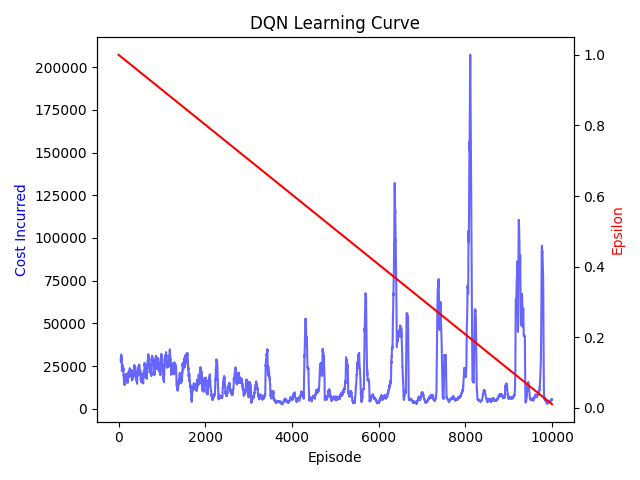
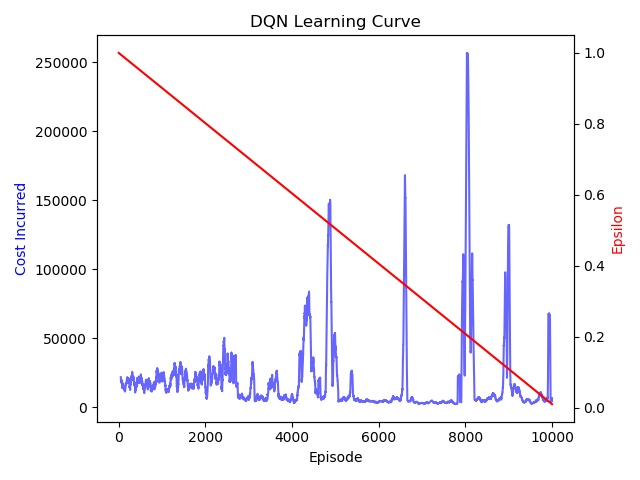
added DeterministicPolicyAgent.py

diff --git a/Deterministic_Test.py b/Deterministic_Test.py
@@ -1,0 +1,147 @@
+import matplotlib.pyplot as plt
+import pandas as pd
+import numpy as np
+
+import SupplyChainAgent
+from theBeerGame.Customer import Customer
+from theBeerGame.Distributor import Distributor
+from theBeerGame.Factory import Factory
+from theBeerGame.Retailer import Retailer
+from theBeerGame.Settings import *
+from theBeerGame.SupplyChainQueue import SupplyChainQueue
+from theBeerGame.SupplyChainStatistics import SupplyChainStatistics
+from theBeerGame.Wholesaler import Wholesaler
+
+# set Pandas options
+pd.set_option('display.width', 2000)
+pd.set_option('display.max_columns', 500)
+
+# set numpy options
+# np.random.seed(RANDOM_SEED)
+
+# Initialize SupplyChainQueues
+wholesalerRetailerTopQueue = SupplyChainQueue(QUEUE_DELAY_WEEKS)
+wholesalerRetailerBottomQueue = SupplyChainQueue(QUEUE_DELAY_WEEKS)
+
+distributorWholesalerTopQueue = SupplyChainQueue(QUEUE_DELAY_WEEKS)
+distributorWholesalerBottomQueue = SupplyChainQueue(QUEUE_DELAY_WEEKS)
+
+factoryDistributorTopQueue = SupplyChainQueue(QUEUE_DELAY_WEEKS)
+factoryDistributorBottomQueue = SupplyChainQueue(QUEUE_DELAY_WEEKS)
+
+for i in range(0, 2):
+    wholesalerRetailerTopQueue.PushEnvelope(CUSTOMER_INITIAL_ORDERS)
+    wholesalerRetailerBottomQueue.PushEnvelope(CUSTOMER_INITIAL_ORDERS)
+    distributorWholesalerTopQueue.PushEnvelope(CUSTOMER_INITIAL_ORDERS)
+    distributorWholesalerBottomQueue.PushEnvelope(CUSTOMER_INITIAL_ORDERS)
+    factoryDistributorTopQueue.PushEnvelope(CUSTOMER_INITIAL_ORDERS)
+    factoryDistributorBottomQueue.PushEnvelope(CUSTOMER_INITIAL_ORDERS)
+
+# Initialize Statistics object
+myStats = SupplyChainStatistics()
+
+# Initialize actors
+theCustomer = Customer()
+myRetailer = Retailer(None, wholesalerRetailerTopQueue, wholesalerRetailerBottomQueue, None, theCustomer)
+
+myWholesaler = Wholesaler(wholesalerRetailerTopQueue, distributorWholesalerTopQueue,
+                          distributorWholesalerBottomQueue, wholesalerRetailerBottomQueue)
+
+myDistributor = Distributor(distributorWholesalerTopQueue, factoryDistributorTopQueue,
+                            factoryDistributorBottomQueue, distributorWholesalerBottomQueue)
+
+myFactory = Factory(factoryDistributorTopQueue, None, None, factoryDistributorBottomQueue, QUEUE_DELAY_WEEKS)
+
+BACKORDER_PENALTY_COST_PER_UNIT = 1.0
+num_episodes = 10000
+num_actions = 30
+initial_epsilon = 1.0
+final_epsilon = 0.01
+# agent = SupplyChainAgent.MonteCarloAgent(nA=num_actions, num_episodes=num_episodes, epsilon=initial_epsilon)
+agent = SupplyChainAgent.DQNAgent(gamma=0.99, epsilon=initial_epsilon, alpha=0.0005, input_dims=4,
+                                  n_actions=num_actions, mem_size=10000, batch_size=52)
+
+
+agent.load_model()
+df = pd.DataFrame(columns=['Week', 'currentStock', 'currentOrders', 'lastOrderQuantity', 'currentPipeline',
+                           'action', 'reward', 'cumulativeReward', 'done'])
+
+weeks = []
+currentStock = []
+currentOrders = []
+lastOrderQuantity = []
+currentPipeline = []
+actions = []
+rewards = []
+cumulativeReward = []
+dones = []
+
+# run episode
+for thisWeek in range(WEEKS_TO_PLAY):
+    # Retailer takes turn, update stats
+    myRetailer.TakeTurn(thisWeek)
+    myStats.RecordRetailerCost(myRetailer.GetCostIncurred())
+    myStats.RecordRetailerOrders(myRetailer.GetLastOrderQuantity())
+    myStats.RecordRetailerEffectiveInventory(myRetailer.CalcEffectiveInventory())
+    print("Retailer Complete")
+
+    # Wholesaler takes turn
+    # state is a list of (week num, inventory, incoming, outgoing)
+    state = list((myWholesaler.CalcEffectiveInventory(), myWholesaler.incomingOrdersQueue.data[0],
+                  myWholesaler.currentOrders, myWholesaler.currentPipeline))
+    action = agent.get_next_action(state)
+
+    # record state
+    weeks.append(thisWeek)
+    currentStock.append(myWholesaler.CalcEffectiveInventory())
+    currentOrders.append(myWholesaler.incomingOrdersQueue.data[0])
+    lastOrderQuantity.append(myWholesaler.lastOrderQuantity)
+    currentPipeline.append(myWholesaler.currentPipeline)
+
+    myWholesaler.TakeTurn(thisWeek, action)
+    reward = -myWholesaler.CalcCostForTurn()
+    done = 1 if thisWeek == WEEKS_TO_PLAY - 1 else 0
+
+    # record stats
+    actions.append(action)
+    rewards.append(reward)
+    cumulativeReward.append(myWholesaler.GetCostIncurred())
+    dones.append(done)
+
+    myStats.RecordWholesalerCost(myWholesaler.GetCostIncurred())
+    myStats.RecordWholesalerOrders(myWholesaler.GetLastOrderQuantity())
+    myStats.RecordWholesalerEffectiveInventory(myWholesaler.CalcEffectiveInventory())
+    print("Wholesaler Complete")
+
+
+    # Distributor takes turn
+    myDistributor.TakeTurn(thisWeek)
+    myStats.RecordDistributorCost(myDistributor.GetCostIncurred())
+    myStats.RecordDistributorOrders(myDistributor.GetLastOrderQuantity())
+    myStats.RecordDistributorEffectiveInventory(myDistributor.CalcEffectiveInventory())
+    print("Distributor Complete")
+
+    # Factory takes turn, update stats
+    myFactory.TakeTurn(thisWeek)
+    myStats.RecordFactoryCost(myFactory.GetCostIncurred())
+    myStats.RecordFactoryOrders(myFactory.GetLastOrderQuantity())
+    myStats.RecordFactoryEffectiveInventory(myFactory.CalcEffectiveInventory())
+    print("Factory Complete")
+
+print("--- Final Statistics ----")
+print("Beer received by customer: {0}".format(theCustomer.GetBeerReceived()))
+myStats.PlotCosts()
+myStats.PlotOrders()
+myStats.PlotEffectiveInventory()
+
+df['Week'] = weeks
+df['currentStock'] = currentStock
+df['currentOrders'] = currentOrders
+df['lastOrderQuantity'] = lastOrderQuantity
+df['currentPipeline'] = currentPipeline
+df['action'] = actions
+df['reward'] = rewards
+df['cumulativeReward'] = cumulativeReward
+df['done'] = dones
+df.to_csv('test1.csv')
+print(df)

diff --git a/DeterministicPolicyAgent.py b/DeterministicPolicyAgent.py
@@ -6,7 +6,8 @@ from keras.optimizers import Adam
 import dill
 from ReplayBuffer import ReplayBufferonteCarloAgent:
 
-    def __init__(self, nA, num_episodes=52, discount_factor=0.99, epsilon=0.5, fname='mc_model.npy'):
+class DeterministicAgent:
+    def __init__(self, nA, num_episodes=52, discount_factor=0.99, epsilon=0.5, fname='deterministic_model.npy'):
         self.return_sum = defaultdict(float)
         self.return_count = defaultdict(float)
         self.discount_factor = discount_factor

diff --git a/DQN_Simulator.py b/DQN_Simulator.py
@@ -106,7 +106,7 @@ for i_episode in tqdm(range(num_episodes)):
                        myWholesaler.currentOrders, myWholesaler.currentPipeline))
 
         # Calculate reward
-        orders_fulfilled = state[2] - state_[2]
+        orders_fulfilled = abs(state[2] - state_[2])
         reward = orders_fulfilled - myWholesaler.CalcCostForTurn()
         done = 1 if thisWeek == WEEKS_TO_PLAY - 1 else 0
 

diff --git a/theBeerGame/Customer.py b/theBeerGame/Customer.py
@@ -66,5 +66,5 @@ class Customer:
 
     def reset(self):
         self.totalBeerReceived = 0
-        self.orders = np.random.randint(CUSTOMER_MINIMUM_ORDERS, CUSTOMER_MAXIMUM_ORDERS, size=WEEKS_TO_PLAY)
+        self.orders = np.random.normal(15, 5, size=WEEKS_TO_PLAY)
         return
